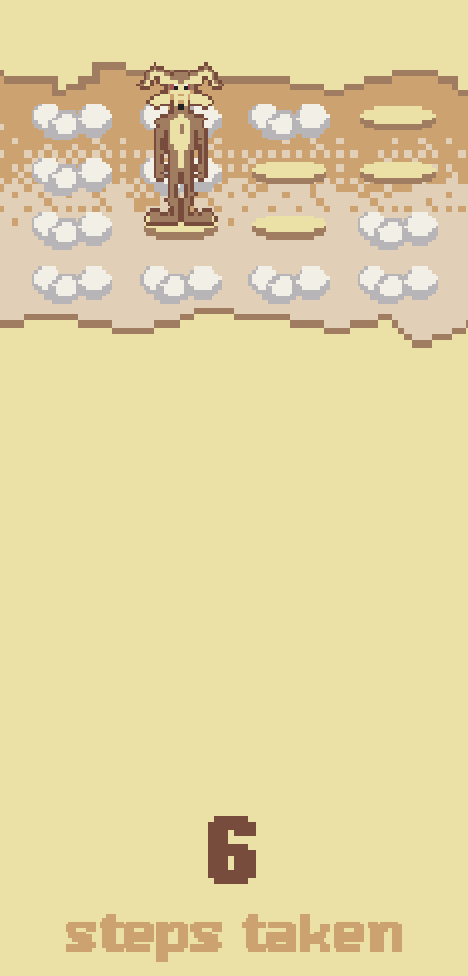
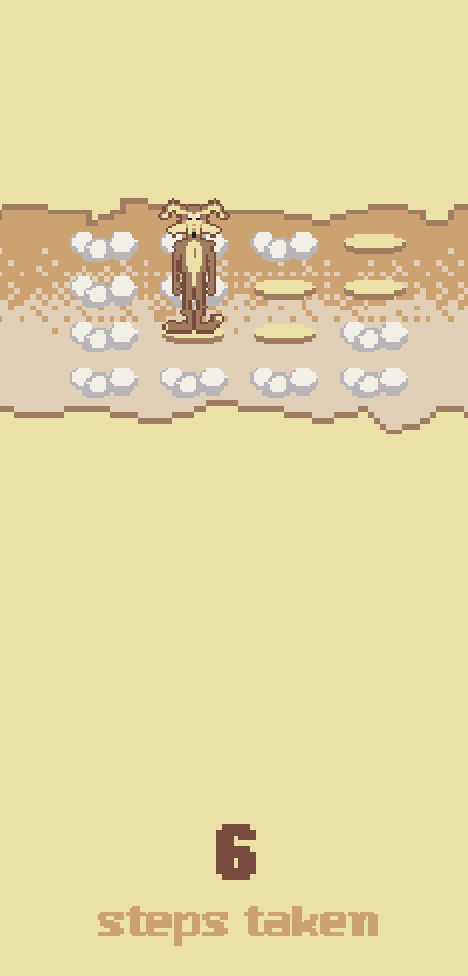
fix coyote rendering and update screenshot

diff --git a/main.py b/main.py
@@ -13,7 +13,7 @@ font32 = pyxel.Font("font-32.bdf")
 class Sprite(enum.Enum):
     COYOTE = (0, 96, 64, 32, 48, 0)
     COYOTE_FALLING = (0, 128, 64, 48, 48, 0)
-    COYOTE_FOOT_UP = (0, 176, 64, 48, 48, 0)
+    COYOTE_FOOT_UP = (0, 176, 64, 32, 48, 0)
     PLATE = (0, 96, 16, 32, 16, 0)
     CLOUD_5 = (0, 64, 0, 32, 16, 0)
     CLOUD_4 = (0, 64, 16, 32, 16, 0)
